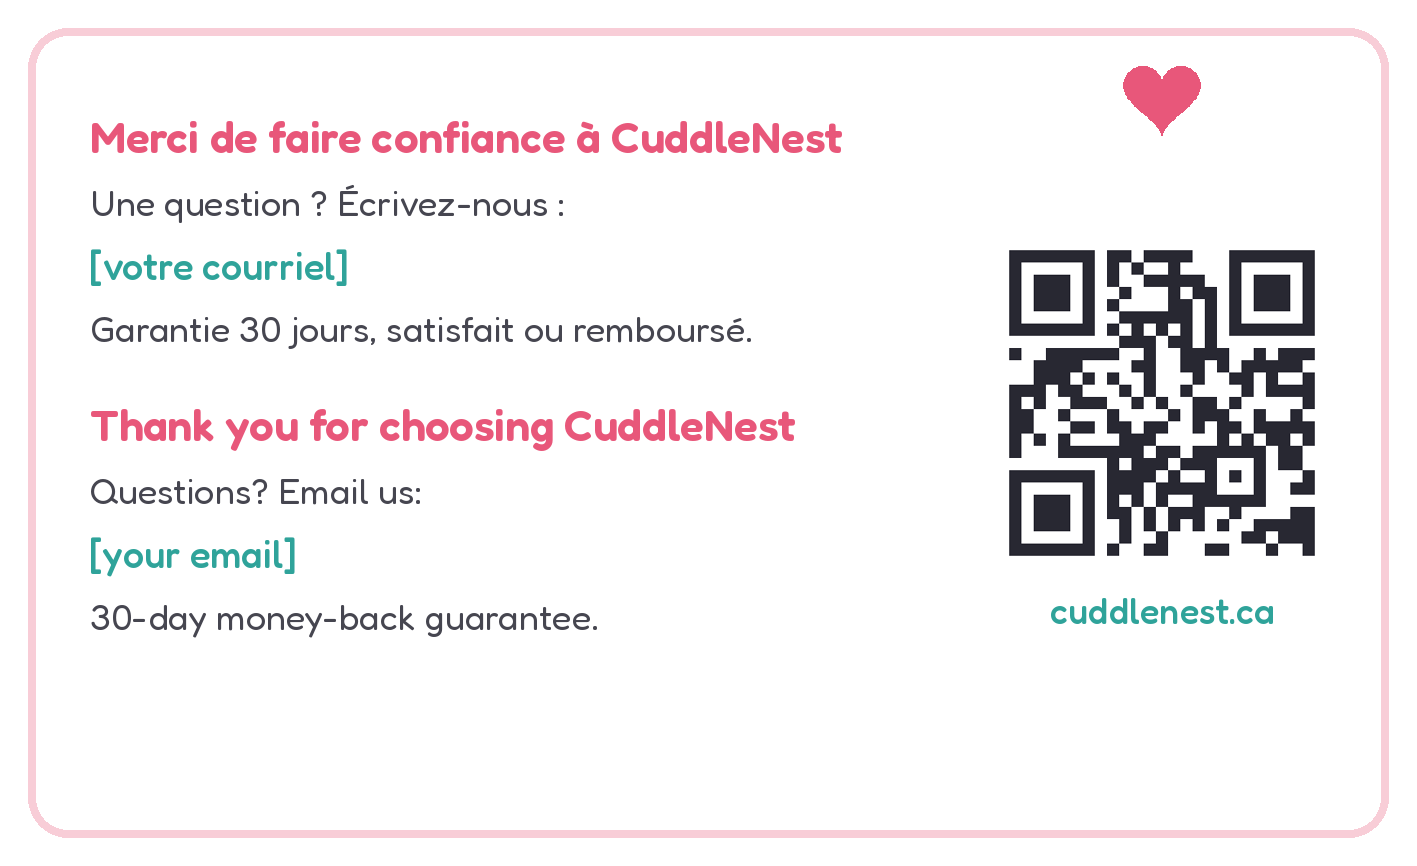
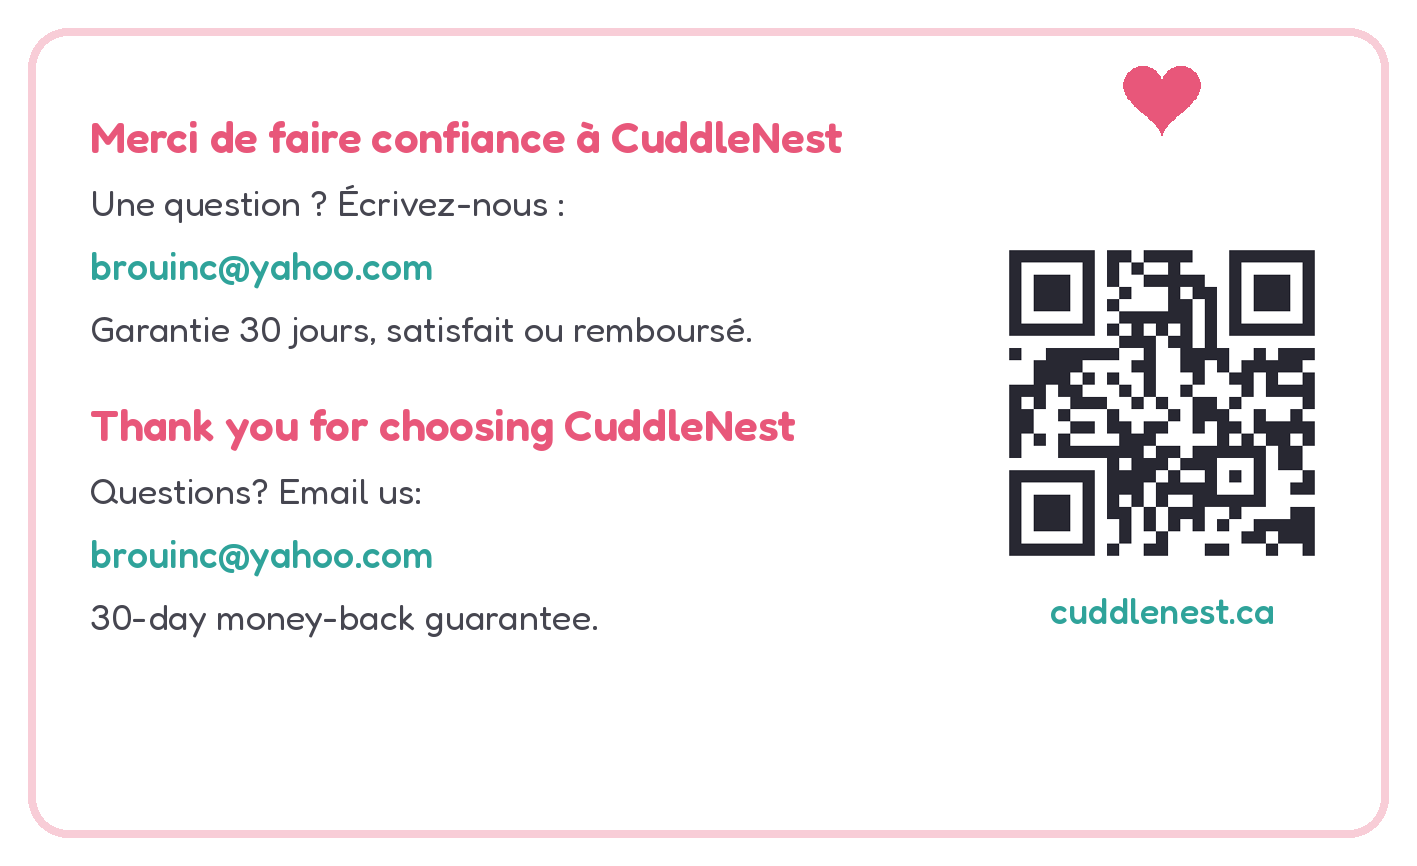
Add CuddleNest contact email to the kit guides and thank-you card
Claude-Session: https://claude.ai/code/session_01ErdJr1XAnYRCG8pcjm9uNM

Changed region(s): [[0.0621, 0.2806, 0.3105, 0.343], [0.0621, 0.6236, 0.3105, 0.6859]]

diff --git a/marketing/cuddlenest/kit-petits-pas/build_kit.py b/marketing/cuddlenest/kit-petits-pas/build_kit.py
@@ -139,7 +139,7 @@ C = {
   "pause": ["Votre enfant pleure, se retient ou refuse fortement le pot plusieurs jours de suite : faites une pause de 2 à 4 semaines.",
             "Un grand changement arrive (bébé, déménagement, nouvelle garderie) : les reculs sont fréquents, reprenez plus tard.",
             "Douleur, brûlure, constipation, ou recul qui dure : parlez-en à un professionnel de la santé."],
-  "end": "Des questions ? Écrivez-nous : [votre courriel] · cuddlenest.ca<br/>Petits pas, grandes étapes. 💛".replace(" 💛", ""),
+  "end": "Des questions ? Écrivez-nous : brouinc@yahoo.com · cuddlenest.ca<br/>Petits pas, grandes étapes.",
   "chart_file": "tableau-recompenses-FR.pdf",
   "chart_title": "Mon tableau des petits pas",
   "chart_name": "Prénom : ______________________",
@@ -232,7 +232,7 @@ C = {
   "pause": ["Your child cries, holds it in or strongly refuses the potty several days in a row: take a 2 to 4 week break.",
             "A big change is coming (new baby, move, new daycare): setbacks are common, try again later.",
             "Pain, burning, constipation, or a setback that lasts: talk to a health professional."],
-  "end": "Questions? Email us: [your email] · cuddlenest.ca<br/>Small steps, big milestones.",
+  "end": "Questions? Email us: brouinc@yahoo.com · cuddlenest.ca<br/>Small steps, big milestones.",
   "chart_file": "reward-chart-EN.pdf",
   "chart_title": "My small steps chart",
   "chart_name": "Name: ______________________",

diff --git a/marketing/cuddlenest/kit-petits-pas/KIT.md b/marketing/cuddlenest/kit-petits-pas/KIT.md
@@ -12,8 +12,7 @@ en ligne (Shopify, Meta, Google). Chaque texte ci-dessous est prêt à copier-co
 | 1 courriel de conseils par jour pendant 7 jours | Section 3 ci-dessous | 0 $ (Shopify Email) |
 | Garantie 30 jours, service en français | Déjà en place | — |
 
-⚠ **Avant de publier :** remplace `[votre courriel]` / `[your email]` à la dernière page
-du guide (ou envoie-moi ton courriel et je régénère les PDF avec `build_kit.py`).
+✅ Courriel de contact dans le guide : **brouinc@yahoo.com** (ajouté le 2026-09-25).
 
 **Règles de contenu respectées :** aucune promesse de résultat (« propre en 7 jours » n'est
 écrit nulle part), conseils généraux avec renvoi vers un professionnel de la santé, « pour le
